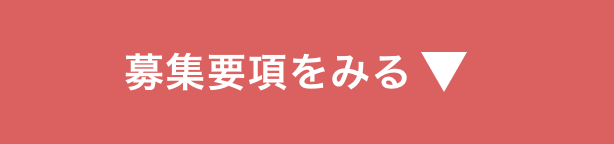
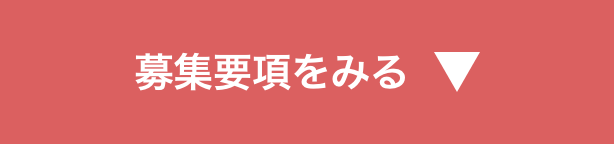
PC版表示修正

Changed region(s): [[0.1857, 0.3611, 0.8046, 0.6389], [0.557, 0.4167, 0.5879, 0.4722], [0.5879, 0.3889, 0.6189, 0.4167]]

diff --git a/StyleSheet/stylesheet.css b/StyleSheet/stylesheet.css
@@ -181,13 +181,10 @@ body
 
 .top-picture .join-button
 {
-    width:16%;
-    margin-left: 42%;    
-    height: auto;
+    margin-top:10%;
+    margin-left: 35%;
     position: absolute;
     top:60vh;
-    border: none;
-    border-radius: 0;
 }
 
 .catch-copy
@@ -457,13 +454,15 @@ body
 .join-button
 {
     width:30%;
-    height: 100px;
-    margin: 100px auto 100px auto;
+    height: auto;
+    margin: 10% 35% 100px auto;
     background-color: #DB6060;
     color:white;
     line-height: 100px;
     text-align: center;
     font-size:24px;
+    border: none;
+    border-radius: 0;
     
 }
 
